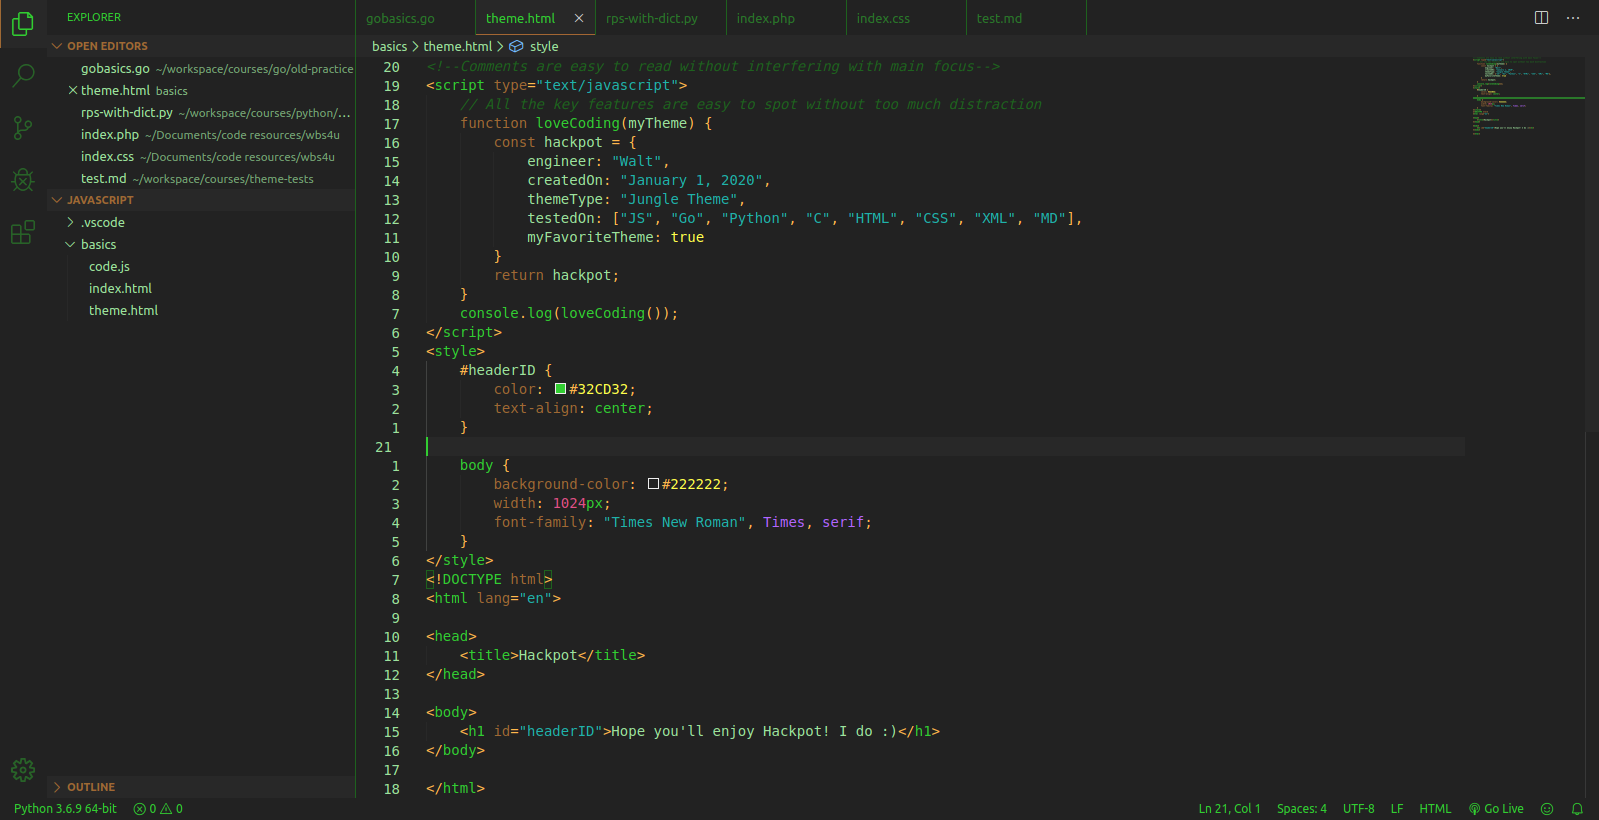
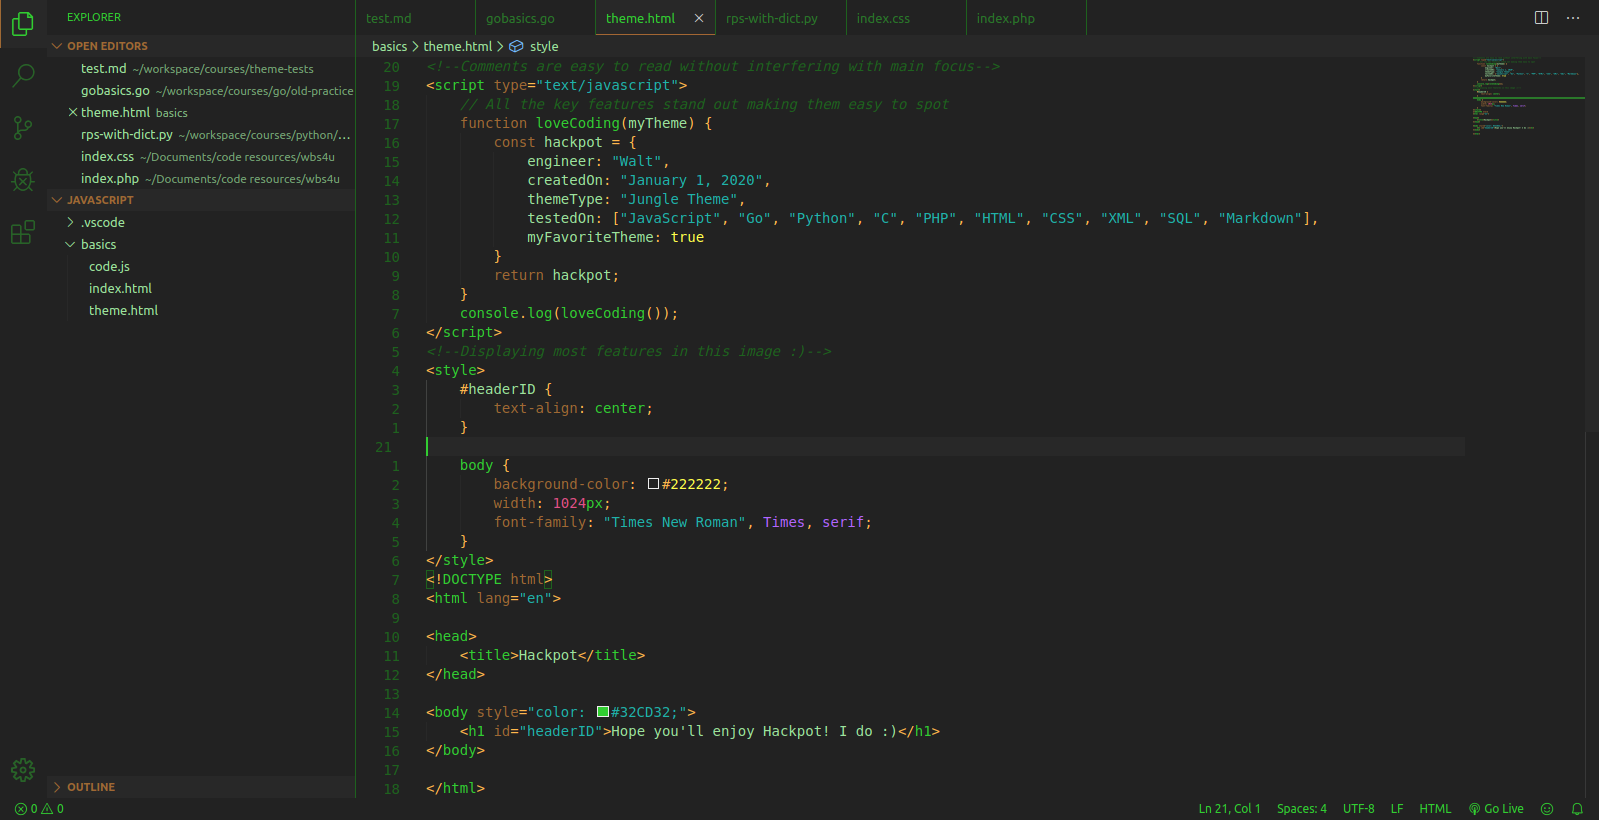
Add files via upload

diff --git a/README.md b/README.md
@@ -1,5 +1,6 @@
 # Hackpot
 ### A jungle theme like no other!
+* Tested on: JavaScript, Go, Python, C, PHP, HTML, CSS, XML, SQL, and Markdown
 ### My new favorite theme :)
 
 Preview of JavaScript, HTML, & CSS
@@ -7,10 +8,10 @@ Preview of JavaScript, HTML, & CSS
 
 ### Note:
 
-If you notice any languages that currently aren't supported with this theme, please post the languages on my repo and I'll gladly add it.
+If you notice any languages that currently aren't supported with this theme, please post the languages on my repo or ask for them in my Q&A, and I'll gladly add it.
 
 # Enjoy :)
 
 #### Credits:
 * Icon for theme is called Valley from Icon Pond at flaticon.com
-<!--shift+cmd+v to preview-->
+<!--ctrl+shift+v to preview-->

diff --git a/CHANGELOG.md b/CHANGELOG.md
@@ -26,3 +26,6 @@
 * Made meta objects light green instead of purple to prevent confusion with built in constants
 * Fixed theme on notifications
 * Modified info page
+
+### Jan 11 2020
+* Changed line numbers color to comments color (felt there was no reason for the line numbers to stand out)
